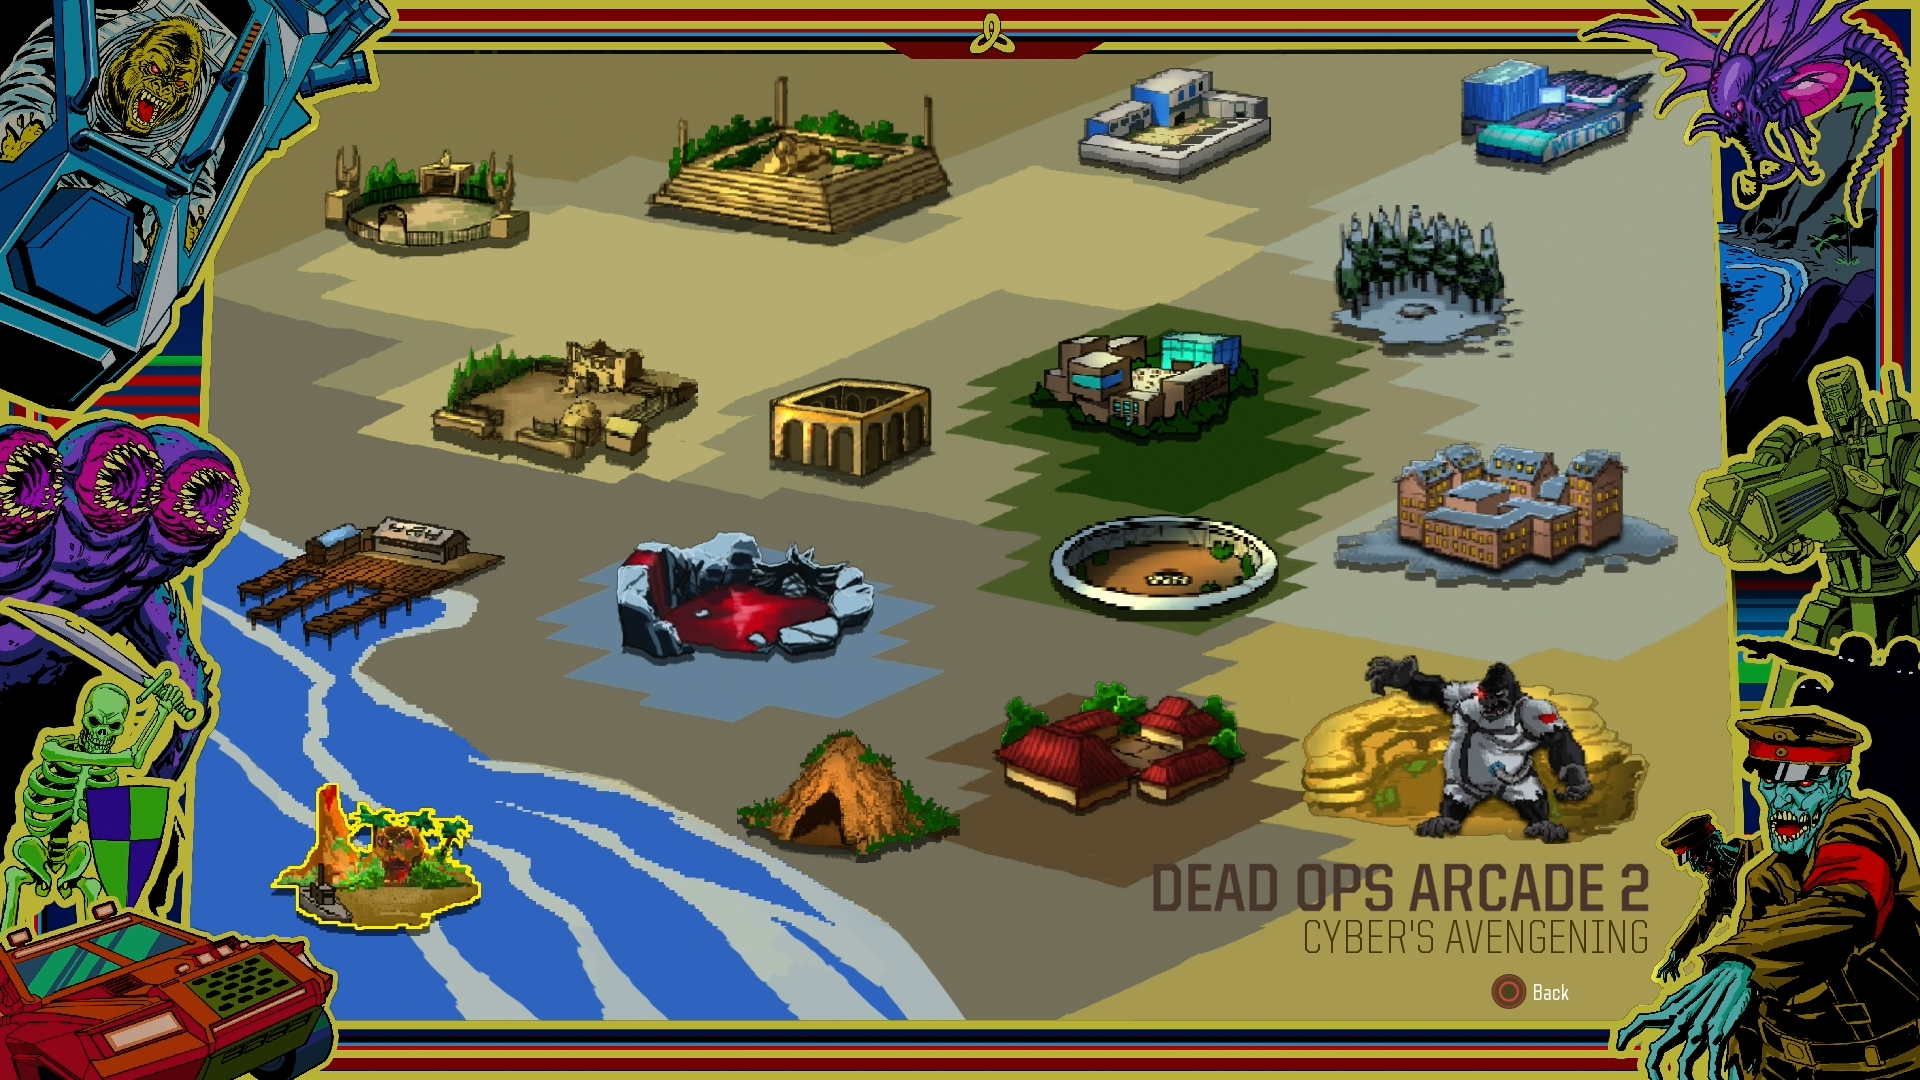
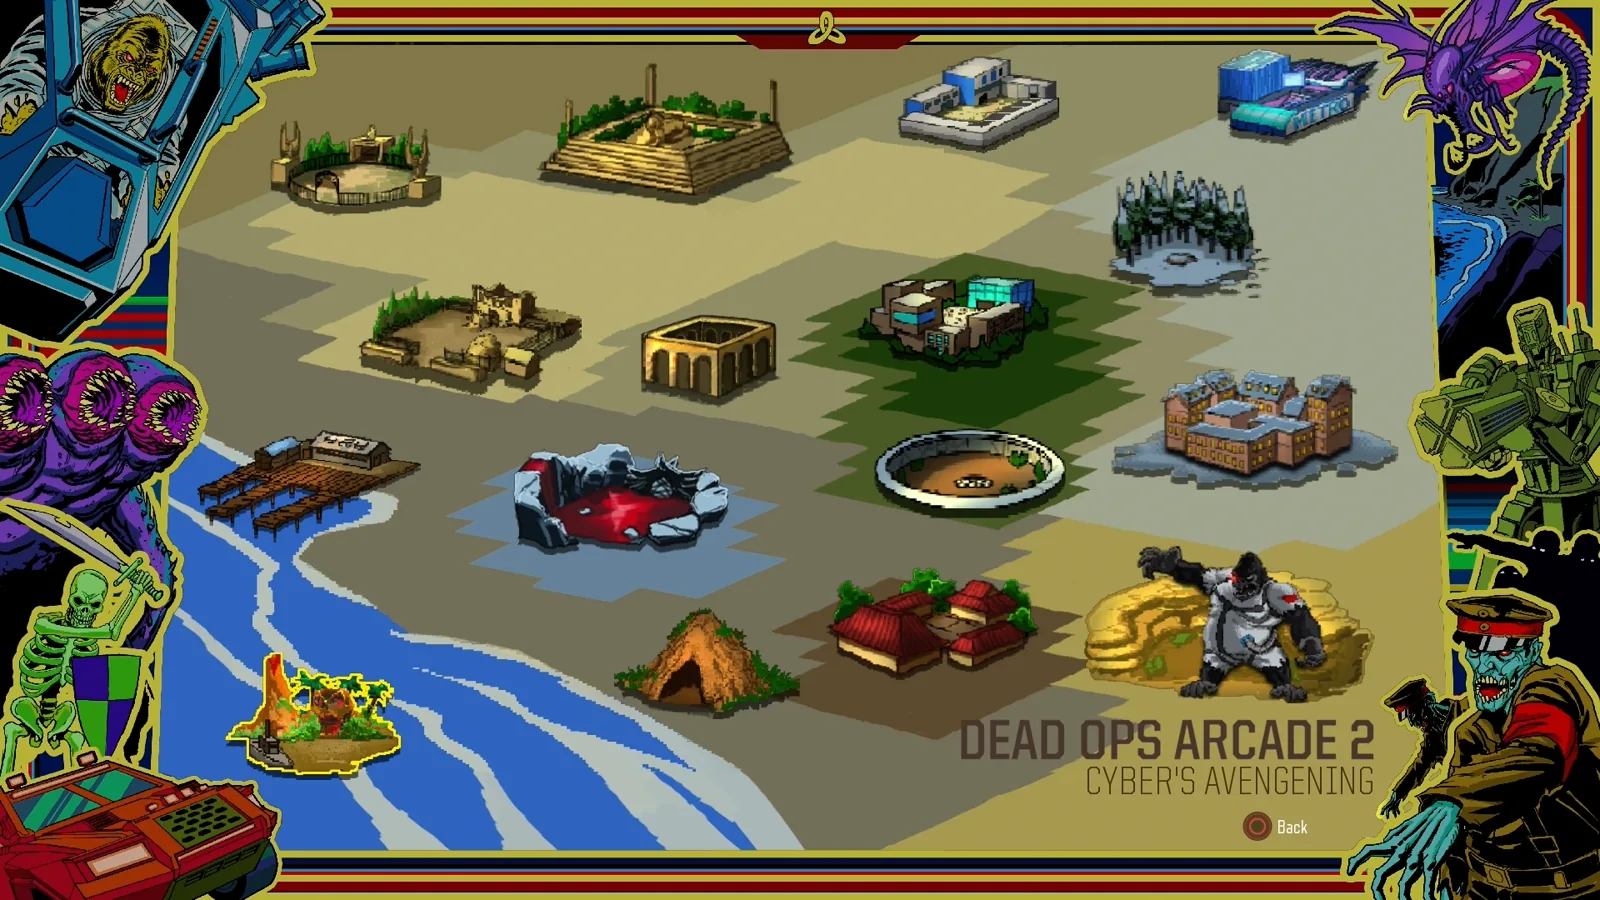
perf(images): WebP cover art, map-card art loads near the screen
- Hub cover and featured art re-encoded to WebP (max 1600px wide, q82):
  e.g. Buried 884K->188K, Dead Ops Arcade II 1448K->192K, MOTD 428K->48K.
  Old JPGs removed; imports and the Shadows of Evil header/footer follow.
- Map cards attach their CSS background art only within ~600px of the
  viewport (CSS backgrounds are never lazy-loaded by the browser).
- Desktop image payload: /allmaps 6.4 MB -> 1.4 MB, /easter-eggs 4.0 ->
  1.3 MB, home 1.9 -> 1.0 MB, Shadows of Evil 417K -> 216K.
- Browser smoke: card art lazy-loads and every card's art still loads;
  each route's head has one description, matching OG tags, own canonical.

Changed region(s): [[0.1875, 0.7467, 0.25, 0.7778], [0.0625, 0.0622, 0.0938, 0.1244]]

diff --git a/apps/hub/src/data/imageData.js b/apps/hub/src/data/imageData.js
@@ -56,36 +56,36 @@ import NukeTownArt                 from '../assets/images/DLC/NukeTown.png';
 import Zombie_ChroniclesArt        from '../assets/images/DLC/Zombie_Chronicles.png';
 
 // ─── Cropped Map Covers ──────────────────────────────────────────────────
-import Nacht_Der_UntotenCover      from '../assets/images/Maps/Nacht_Der_Untoten.jpg';
-import Kino_Der_TotenCover         from '../assets/images/Maps/Kino_Der_Toten.jpg';
+import Nacht_Der_UntotenCover      from '../assets/images/Maps/Nacht_Der_Untoten.webp';
+import Kino_Der_TotenCover         from '../assets/images/Maps/Kino_Der_Toten.webp';
 import FiveCover                   from '../assets/images/Maps/Five.jpg';
 import Dead_Ops_ArcadeCover        from '../assets/images/BO1/Dead_Ops_Arcade.webp';
-import Der_EisendracheCover        from '../assets/images/Maps/Der_Eisendrache.jpg';
-import AscensionCover              from '../assets/images/Maps/Ascension.jpg';
-import Call_Of_The_DeadCover       from '../assets/images/Maps/Call_Of_The_Dead.jpg';
-import Shangri_LaCover             from '../assets/images/Maps/Shangri_La.jpg';
-import MoonCover                   from '../assets/images/Maps/Moon.jpg';
-import VerrücktCover               from '../assets/images/Maps/Verrückt.jpg';
-import Shi_No_NumaCover            from '../assets/images/Maps/Shi_No_Numa.jpg';
+import Der_EisendracheCover        from '../assets/images/Maps/Der_Eisendrache.webp';
+import AscensionCover              from '../assets/images/Maps/Ascension.webp';
+import Call_Of_The_DeadCover       from '../assets/images/Maps/Call_Of_The_Dead.webp';
+import Shangri_LaCover             from '../assets/images/Maps/Shangri_La.webp';
+import MoonCover                   from '../assets/images/Maps/Moon.webp';
+import VerrücktCover               from '../assets/images/Maps/Verrückt.webp';
+import Shi_No_NumaCover            from '../assets/images/Maps/Shi_No_Numa.webp';
 import TranzitCoverMap             from '../assets/images/Maps/Tranzit.avif';
-import NuketownCover               from '../assets/images/Maps/NukeTown.jpg';
+import NuketownCover               from '../assets/images/Maps/NukeTown.webp';
 import Die_RiseCover               from '../assets/images/Maps/Die_Rise.webp';
 import Mob_Of_The_DeadCover        from '../assets/images/BO2/Mob_Of_The_Dead.webp';
-import BuriedCover                 from '../assets/images/Maps/Buried.jpg';
-import OriginsCover                from '../assets/images/Maps/Origins.jpg';
-import Shadows_Of_EvilCover        from '../assets/images/Maps/Shadows_Of_Evil.jpg';
-import The_GiantCover              from '../assets/images/Maps/The_Giant.jpg';
+import BuriedCover                 from '../assets/images/Maps/Buried.webp';
+import OriginsCover                from '../assets/images/Maps/Origins.webp';
+import Shadows_Of_EvilCover        from '../assets/images/Maps/Shadows_Of_Evil.webp';
+import The_GiantCover              from '../assets/images/Maps/The_Giant.webp';
 import Dead_Ops_Arcade_IICover     from '../assets/images/BO3/Dead_Ops_Arcade_II.webp';
-import Zetsubou_No_ShimaCover      from '../assets/images/Maps/Zetsubou_No_Shima.jpg';
-import Gorod_KroviCover            from '../assets/images/Maps/Gorod_Krovi.jpg';
-import RevelationsCover            from '../assets/images/Maps/Revelations.jpg';
-import Nacht_Der_Untoten3Cover     from '../assets/images/Maps/Nacht_Der_Untoten.jpg';
-import Kino_Der_Toten3Cover        from '../assets/images/Maps/Kino_Der_Toten.jpg';
-import Shangri_La3Cover            from '../assets/images/Maps/Shangri_La.jpg';
-import Moon3Cover                  from '../assets/images/Maps/Moon.jpg';
-import Origins3Cover               from '../assets/images/Maps/Origins.jpg';
-import Verrückt3Cover              from '../assets/images/Maps/Verrückt.jpg';
-import Shi_No_Numa3Cover           from '../assets/images/Maps/Shi_No_Numa.jpg';
+import Zetsubou_No_ShimaCover      from '../assets/images/Maps/Zetsubou_No_Shima.webp';
+import Gorod_KroviCover            from '../assets/images/Maps/Gorod_Krovi.webp';
+import RevelationsCover            from '../assets/images/Maps/Revelations.webp';
+import Nacht_Der_Untoten3Cover     from '../assets/images/Maps/Nacht_Der_Untoten.webp';
+import Kino_Der_Toten3Cover        from '../assets/images/Maps/Kino_Der_Toten.webp';
+import Shangri_La3Cover            from '../assets/images/Maps/Shangri_La.webp';
+import Moon3Cover                  from '../assets/images/Maps/Moon.webp';
+import Origins3Cover               from '../assets/images/Maps/Origins.webp';
+import Verrückt3Cover              from '../assets/images/Maps/Verrückt.webp';
+import Shi_No_Numa3Cover           from '../assets/images/Maps/Shi_No_Numa.webp';
 
 
 // ─── Aggregate and default-export ─────────────────────────────────────────

diff --git a/apps/hub/src/components/MapCard.jsx b/apps/hub/src/components/MapCard.jsx
@@ -1,7 +1,26 @@
-import React, { useState } from 'react';
+import React, { useEffect, useRef, useState } from 'react';
 import { Link } from 'react-router-dom';
 import { IoArrowForward } from 'react-icons/io5';
 import '../styles/compStyles/MapCard.css';
+
+// Card art is a CSS background, which the browser never lazy-loads: a catalog of 30 cards fetched every
+// cover up front. A card attaches its art only once it is within a screen or so of the viewport.
+function useNearViewport() {
+  const ref = useRef(null);
+  const [near, setNear] = useState(() => typeof IntersectionObserver === 'undefined');
+  useEffect(() => {
+    if (near || !ref.current) return undefined;
+    const observer = new IntersectionObserver((entries) => {
+      if (entries.some((entry) => entry.isIntersecting)) {
+        setNear(true);
+        observer.disconnect();
+      }
+    }, { rootMargin: '600px 0px' });
+    observer.observe(ref.current);
+    return () => observer.disconnect();
+  }, [near]);
+  return [ref, near];
+}
 
 export default function MapCard({
   map,
@@ -25,10 +44,12 @@ export default function MapCard({
 
   const [cardHover, setCardHover] = useState(false);
   const [dlcHover, setDlcHover] = useState(false);
+  const [cardRef, nearViewport] = useNearViewport();
 
   let bg = coverImage;
   if (cardHover && layoutImage) bg = layoutImage;
   if (dlcHover && hoverImage) bg = hoverImage;
+  const artStyle = nearViewport && bg ? { backgroundImage: `url(${bg})` } : undefined;
 
   const Wrapper = disableLink ? 'div' : Link;
   const search = game ? `?game=${encodeURIComponent(game)}` : '';
@@ -44,6 +65,7 @@ export default function MapCard({
   return (
     <Wrapper
       {...wrapperProps}
+      ref={cardRef}
       className={`map-card ${isPreview ? 'preview-card' : 'lore-card'}`}
       onMouseEnter={() => setCardHover(true)}
       onMouseLeave={() => {
@@ -56,8 +78,8 @@ export default function MapCard({
         setDlcHover(false);
       }}
     >
-      <div className="bg-blur" style={{ backgroundImage: `url(${bg})` }} aria-hidden="true" />
-      <div className="bg-main" style={{ backgroundImage: `url(${bg})` }} aria-hidden="true" />
+      <div className="bg-blur" style={artStyle} aria-hidden="true" />
+      <div className="bg-main" style={artStyle} aria-hidden="true" />
 
       <div className="map-card__meta" aria-hidden="true">
         {game && <span className="map-game-chip">{game.replace('Black Ops ', 'BO')}</span>}

diff --git a/apps/hub/src/data/featuredMaps.js b/apps/hub/src/data/featuredMaps.js
@@ -1,10 +1,10 @@
-import AllMapsImg        from '../assets/images/Featured/AllMaps.jpg';
+import AllMapsImg        from '../assets/images/Featured/AllMaps.webp';
 import OriginsImg        from '../assets/images/Featured/Origins.webp';
-import RevelationsImg    from '../assets/images/Featured/Rev.jpg';
-import MobOfTheDeadImg   from '../assets/images/Featured/MOTD.jpg';
+import RevelationsImg    from '../assets/images/Featured/Rev.webp';
+import MobOfTheDeadImg   from '../assets/images/Featured/MOTD.webp';
 import DerEisendracheImg from '../assets/images/Featured/DE.webp';
 import GorodKroviImg     from '../assets/images/Featured/GK.webp';
-import SideEEImg         from '../assets/images/Featured/SideEE.jpg';
+import SideEEImg         from '../assets/images/Featured/SideEE.webp';
 import { getDedicatedGuideRoute } from './dedicatedGuides';
 
 const featuredMaps = [

diff --git a/maps/shadows-of-evil/src/styles/Shadows.css b/maps/shadows-of-evil/src/styles/Shadows.css
@@ -88,7 +88,7 @@
   position: absolute;
   inset: -24px;
   z-index: -2;
-  background: url('../../../../apps/hub/src/assets/images/Maps/Shadows_Of_Evil.jpg') center / cover no-repeat;
+  background: url('../../../../apps/hub/src/assets/images/Maps/Shadows_Of_Evil.webp') center / cover no-repeat;
   filter: blur(16px) brightness(0.22) saturate(0.7);
   transform: scale(1.05);
 }

diff --git a/maps/shadows-of-evil/src/components/Footer.jsx b/maps/shadows-of-evil/src/components/Footer.jsx
@@ -1,5 +1,5 @@
 import React from 'react';
-import soeCover from '../../../../apps/hub/src/assets/images/Maps/Shadows_Of_Evil.jpg';
+import soeCover from '../../../../apps/hub/src/assets/images/Maps/Shadows_Of_Evil.webp';
 import '../styles/Shadows.css';
 
 export default function Footer() {

diff --git a/maps/shadows-of-evil/src/components/Header.jsx b/maps/shadows-of-evil/src/components/Header.jsx
@@ -1,5 +1,5 @@
 import React from 'react';
-import soeCover from '../../../../apps/hub/src/assets/images/Maps/Shadows_Of_Evil.jpg';
+import soeCover from '../../../../apps/hub/src/assets/images/Maps/Shadows_Of_Evil.webp';
 import '../styles/Shadows.css';
 
 export default function Header() {
